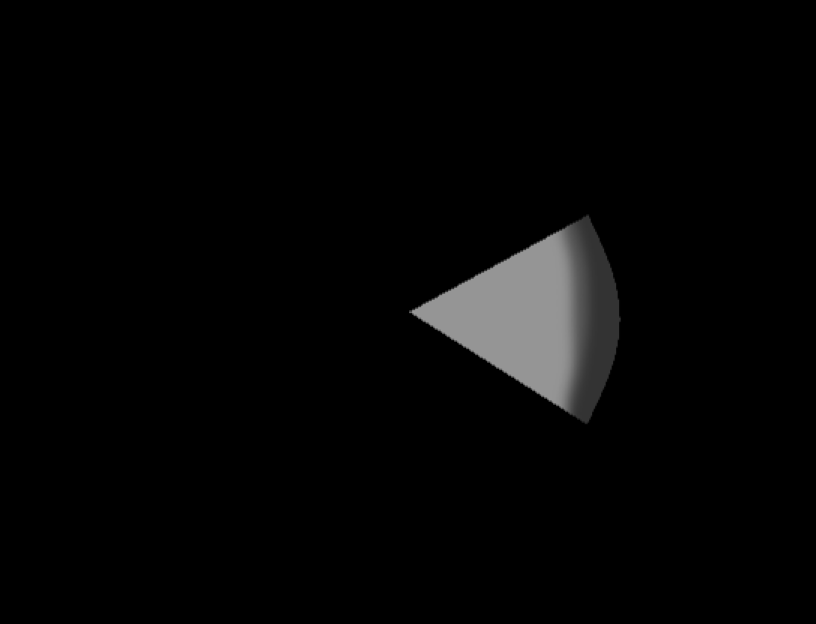
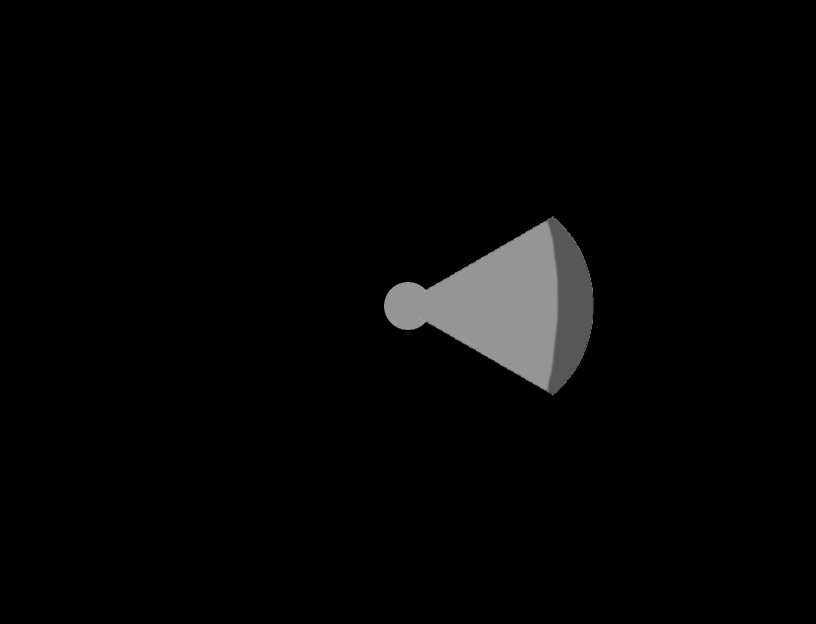
Update002
優化手電筒效果
修改轉輪手槍(史密斯M36)圖片、名稱、說明文字
修改操作方式

Changed region(s): [[0.4596, 0.3349, 0.7659, 0.6699], [0.5515, 0.5481, 0.6434, 0.609]]

diff --git a/js/plugins.js b/js/plugins.js
@@ -4,7 +4,7 @@ var $plugins =
 [
 {"name":"Community_Basic","status":false,"description":"Plugin used to set basic parameters.","parameters":{"cacheLimit":"20","screenWidth":"816","screenHeight":"624","changeWindowWidthTo":"","changeWindowHeightTo":"","renderingMode":"auto","alwaysDash":"off"}},
 {"name":"MadeWithMv","status":false,"description":"Show a Splash Screen \"Made with MV\" and/or a Custom Splash Screen before going to main screen.","parameters":{"Show Made With MV":"true","Made with MV Image":"MadeWithMv","Show Custom Splash":"false","Custom Image":"","Fade Out Time":"120","Fade In Time":"120","Wait Time":"160"}},
-{"name":"YEP_KeyboardConfig","status":true,"description":"v1.04 Allows players to adjust their button configuration\nfor keyboards.","parameters":{"---General---":"","Command Name":"鍵盤設置","Button Events":"1 2 3","Button Events List":"[]","---Help Text---":"","Key Help":"選擇要變更的按鍵","Default Layout":"恢復預設","Default Help":"將鍵盤設置恢復成預設狀態。","WASD Layout":"WASD 移動模式","WASD Help":"將鍵盤設置成WASD移動模式","Finish Config":"完成設定","Finish Help":"完成設定並返回選單。","Assigned Color":"21","Action Color":"4","Clear Text":"清除","---Key Names---":"","OK Key":"OK","OK Text":"確定/調查/攻擊(戰鬥狀態)","Escape Key":"X","Escape Text":"取消/選單/固定方向(戰鬥狀態)","Cancel Key":"取消","Cancel Text":"取消/固定方向(戰鬥狀態)","Menu Key":"選單","Menu Text":"選單","Shift Key":"切換","Shift Text":"切換戰鬥模式開/關","PageUp Key":"上頁","PageUp Text":"上一頁/重新填裝(戰鬥狀態)","PageDown Key":"下頁","PageDown Text":"下一頁/檢查彈量(戰鬥狀態)","Left Key":"◄","Left Text":"向左移動","Up Key":"▲","Up Text":"向上移動","Right Key":"►","Right Text":"向右移動","Down Key":"▼","Down Text":"向下移動"}},
+{"name":"YEP_KeyboardConfig","status":true,"description":"v1.04 Allows players to adjust their button configuration\nfor keyboards.","parameters":{"---General---":"","Command Name":"鍵盤設置","Button Events":"1 2 3","Button Events List":"[]","---Help Text---":"","Key Help":"選擇要變更的按鍵","Default Layout":"恢復預設","Default Help":"將鍵盤設置恢復成預設狀態。","WASD Layout":"設為操作模式2","WASD Help":"將鍵盤設置成接近傳統RPG操作模式。","Finish Config":"完成設定","Finish Help":"完成設定並返回選單。","Assigned Color":"21","Action Color":"4","Clear Text":"清除","---Key Names---":"","OK Key":"OK","OK Text":"確定/調查/攻擊(戰鬥狀態)","Escape Key":"X","Escape Text":"取消/選單/固定方向(戰鬥狀態)","Cancel Key":"取消","Cancel Text":"取消/固定方向(戰鬥狀態)","Menu Key":"選單","Menu Text":"選單","Shift Key":"舉槍","Shift Text":"切換戰鬥模式開/關","PageUp Key":"裝填","PageUp Text":"上一頁/重新填裝(戰鬥狀態)","PageDown Key":"檢查","PageDown Text":"下一頁/檢查彈量(戰鬥狀態)","Left Key":"◄","Left Text":"向左移動","Up Key":"▲","Up Text":"向上移動","Right Key":"►","Right Text":"向右移動","Down Key":"▼","Down Text":"向下移動"}},
 {"name":"YEP_EventChasePlayer","status":true,"description":"v1.07 When a player is in the proximity of a certain event,\nthe event will start chasing or fleeing from the player.","parameters":{"Sight Lock":"300","See Player":"true","Alert Timer":"120","Alert Balloon":"0","Alert Sound":"Monster2","Alert Common Event":"0","Return After":"true","Return Wait":"180"}},
 {"name":"YEP_EventMiniLabel","status":true,"description":"v1.12 Creates miniature-sized labels over events to allow\r\nyou to insert whatever text you'd like in them.","parameters":{"Default Show":"true","Minimum Width":"136","Font Size":"20","X Buffer":"0","Y Buffer":"36","Battle Transition":"false"}},
 {"name":"FELSKI_AUTOSAVE","status":true,"description":"v1.0.1 This plugin enables autosaving in your game. For RPG Maker MV 1.6.1.","parameters":{"Save Settings":"","Auto Save Slots":"1","Save After Map Change":"false","Save On Menu Exit":"false","Enable Auto Saving":"true","Save Texts":"","Auto Save Text":"自動存檔","Save After Map Change Text":"Entering Area","Save On Menu Exit Text":"Closing Menu","Save Standard Text":" "}}

diff --git a/js/plugins/YEP_KeyboardConfig.js b/js/plugins/YEP_KeyboardConfig.js
@@ -479,12 +479,30 @@ Input._switchButton = function(button) {
 ConfigManager.keyMapper = JSON.parse(JSON.stringify(Input.keyMapper));
 ConfigManager.defaultMap = JSON.parse(JSON.stringify(Input.keyMapper));
 ConfigManager.wasdMap = {
-  9: 'tab', 13: 'ok', 16: 'shift', 17: 'control', 18: 'control', 27: 'escape',
-  32: 'ok', 33: 'pageup', 34: 'pagedown', 37: 'left', 38: 'up', 39: 'right',
-  40: 'down', 87: 'up', 65: 'left', 83: 'down', 68: 'right', 74: 'ok',
-  75: 'escape', 77: 'menu', 219: 'pageup',  221: 'pagedown', 45: 'escape',
-  46: 'ok', 35: 'escape', 36: 'menu', 96: 'escape', 98: 'down', 100: 'left',
-  102: 'right', 104: 'up', 120: 'debug' 
+    9: 'tab',       // tab
+    13: 'ok',       // enter
+    16: 'shift',    // shift
+    17: 'control',  // control
+    18: 'control',  // alt
+    27: 'escape',   // escape
+    32: 'ok',       // space
+    33: 'pageup',   // pageup
+    34: 'pagedown', // pagedown
+    37: 'left',     // left arrow
+    38: 'up',       // up arrow
+    39: 'right',    // right arrow
+    40: 'down',     // down arrow
+    45: 'escape',   // insert
+    65: 'pageup',   // A
+    83: 'pagedown', // S
+    88: 'escape',   // X
+    90: 'ok',       // Z
+    96: 'escape',   // numpad 0
+    98: 'down',     // numpad 2
+    100: 'left',    // numpad 4
+    102: 'right',   // numpad 6
+    104: 'up',      // numpad 8
+    120: 'debug'    // F9
 };
 
 if (Imported.YEP_ButtonCommonEvents) {

diff --git a/js/rpg_core.js b/js/rpg_core.js
@@ -3002,22 +3002,21 @@ Input.keyRepeatInterval = 6;
 Input.keyMapper = {
     9: 'tab',       // tab
     13: 'ok',       // enter
-    16: 'shift',    // shift
+    69: 'shift',
     17: 'control',  // control
     18: 'control',  // alt
     27: 'escape',   // escape
     32: 'ok',       // space
     33: 'pageup',   // pageup
     34: 'pagedown', // pagedown
-    37: 'left',     // left arrow
-    38: 'up',       // up arrow
-    39: 'right',    // right arrow
-    40: 'down',     // down arrow
+    65: 'left',     // left arrow
+    87: 'up',       // up arrow
+    68: 'right',    // right arrow
+    83: 'down',     // down arrow
     45: 'escape',   // insert
-    81: 'pageup',   // Q
-    87: 'pagedown', // W
-    88: 'escape',   // X
-    90: 'ok',       // Z
+    82: 'pageup',  
+    81: 'pagedown', 
+    70: 'escape',   
     96: 'escape',   // numpad 0
     98: 'down',     // numpad 2
     100: 'left',    // numpad 4
